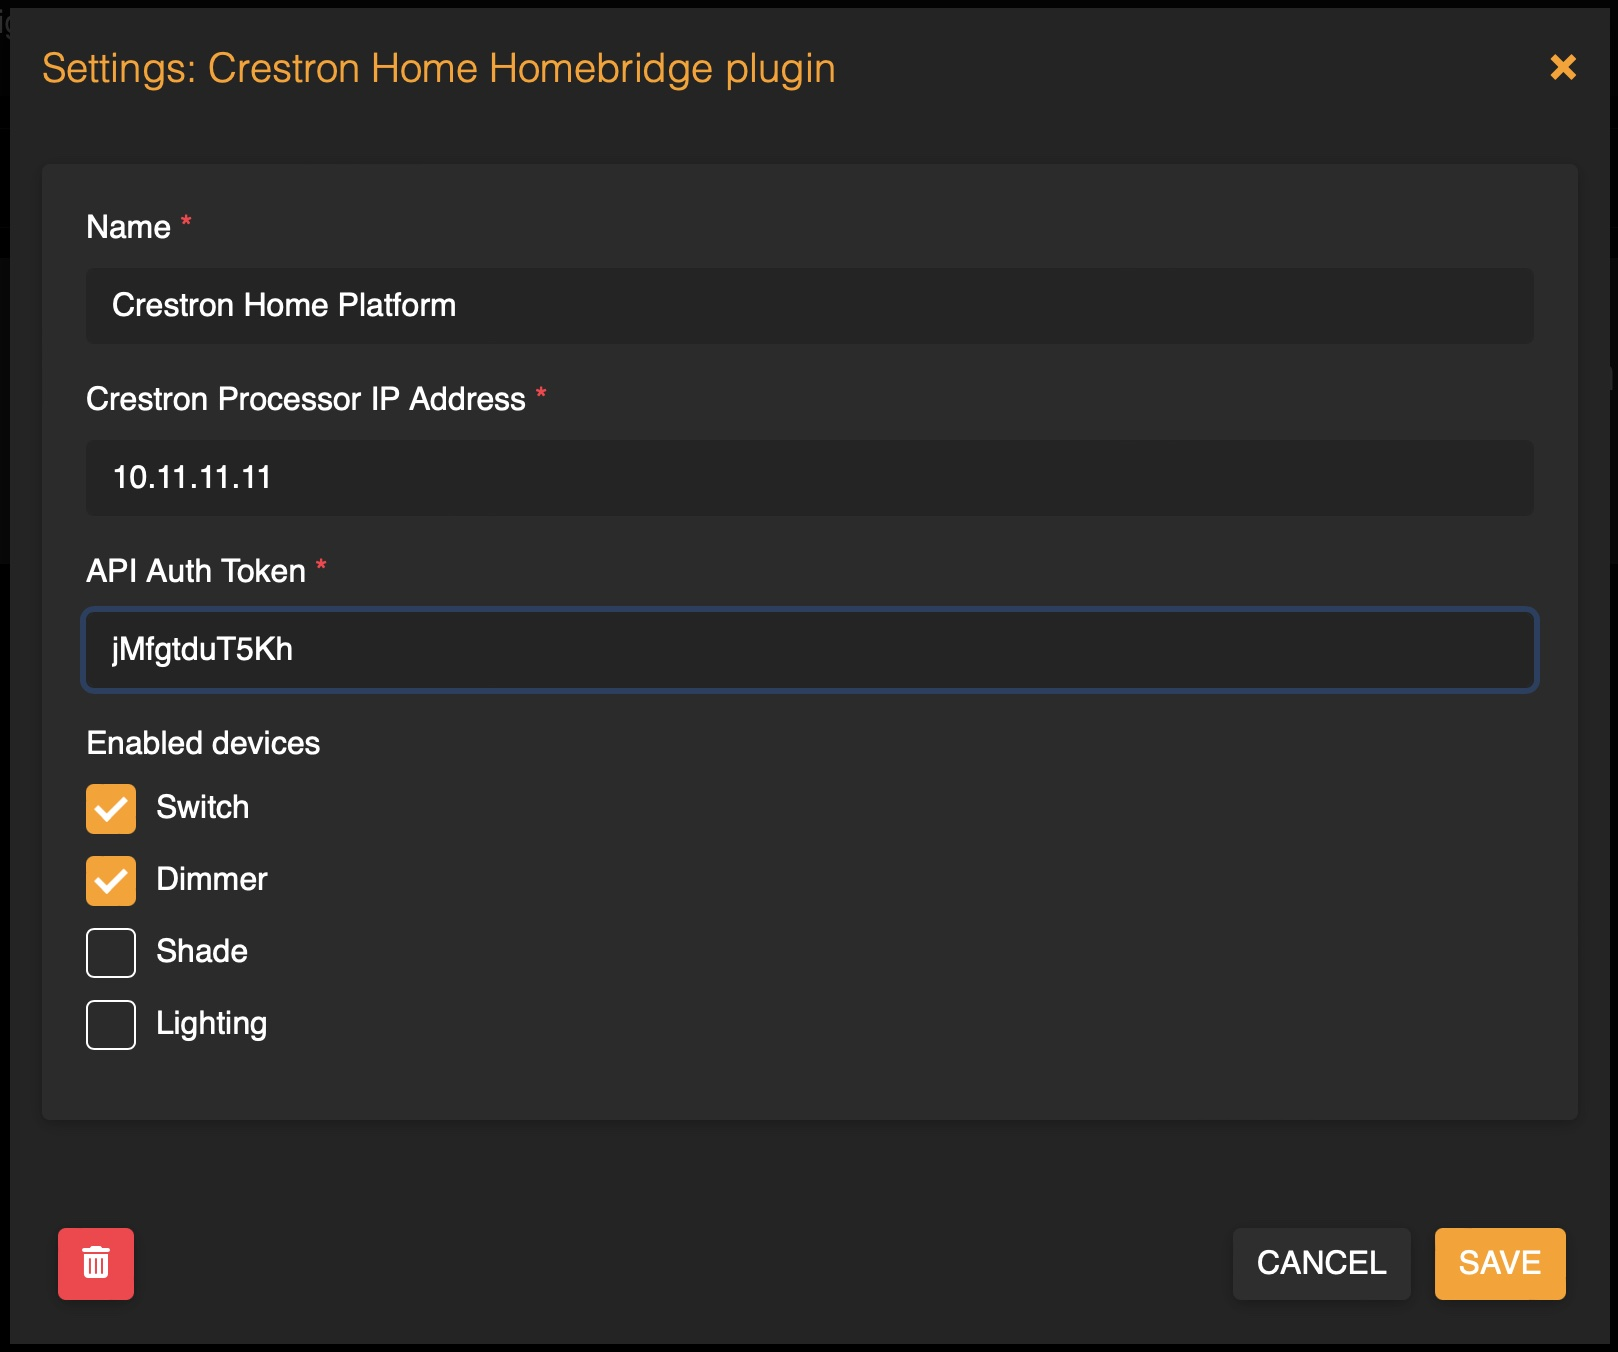
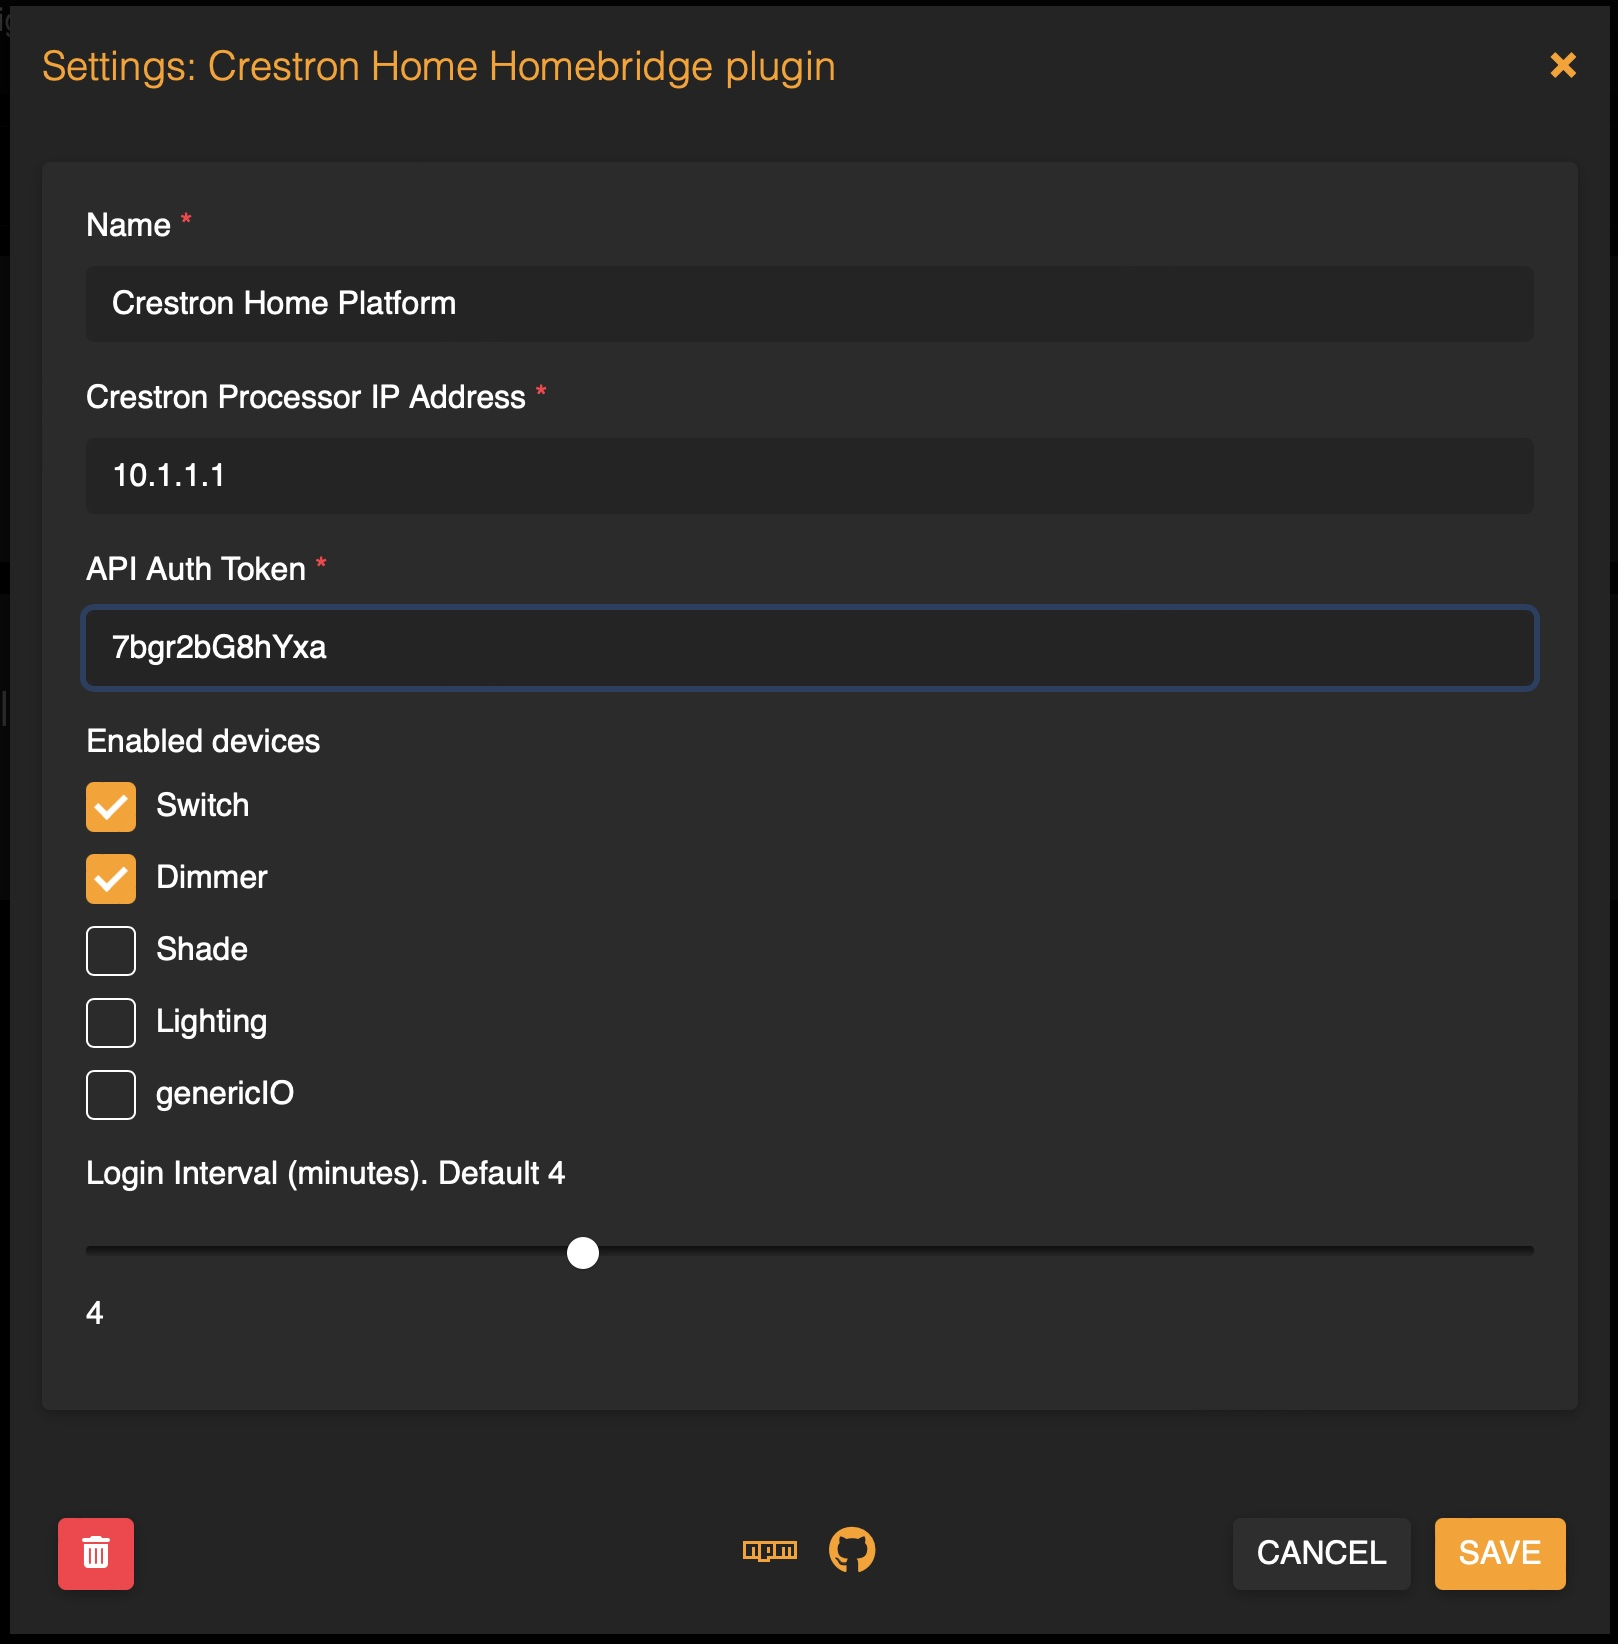
Support for refresh login interval

diff --git a/src/crestronClient.ts b/src/crestronClient.ts
@@ -41,20 +41,21 @@ export class CrestronClient {
   private crestronUri: string;
   private lastLogin: number = new Date().getTime() - 11 * 60 * 1000; // 11 minutes, Crestron session TTL is 10 minutes
   private NINE_MINUTES_MILLIS = 9 * 60 * 1000;
+  private loginInterval: number = 4 * 60 * 1000;
 
   private httpsAgent = new https.Agent({
     rejectUnauthorized: false,
   });
 
   private rooms: Room[] = [];
-  private scenes: Scene[] = [];
   private enabledTypes: string[] = [];
 
   constructor(
     crestronHost: string,
     apiToken: string,
     enabledTypes: Array<string>,
-    public readonly log: Logger) {
+    public readonly log: Logger,
+    loginInterval: number) {
 
     this.apiToken = apiToken;
     this.enabledTypes = enabledTypes;
@@ -62,6 +63,9 @@ export class CrestronClient {
     log.debug('Enabled types:', this.enabledTypes);
     this.log.debug('Configured Crestron Processor, trying to login to;', crestronHost);
     this.crestronUri = `https://${crestronHost}/cws/api`;
+
+    this.loginInterval = (loginInterval || 4) * 60 * 1000; //minutes
+    log.debug('Will relogin every', this.loginInterval);
   }
 
   public async getDevices() {
@@ -118,6 +122,7 @@ export class CrestronClient {
       this.log.info('Returning 149 devices, the stuff left behind are', devices.slice(149, 1024) || 'None');
 
       this.log.debug('Get Devices response: ', devices);
+      setInterval(this.login.bind(this), this.loginInterval);
       return d;
     } catch (error) {
       this.log.error('error getting devices: ', error);
@@ -220,10 +225,10 @@ export class CrestronClient {
 
   public async login(): Promise<number> {
 
-    // this.log.debug('Starting login...');
+    this.log.debug('Starting login...');
 
     if(new Date().getTime() - this.lastLogin < this.NINE_MINUTES_MILLIS ) {
-      // this.log.debug('LOGIN: Session is still valid, doing nothing...');
+      this.log.debug('LOGIN: Session is still valid, doing nothing...');
       return this.lastLogin;
     }
 

diff --git a/src/platform.ts b/src/platform.ts
@@ -30,7 +30,7 @@ export class CrestronHomePlatform implements DynamicPlatformPlugin {
   ) {
 
     log.debug('Configured devices:', config.enabledTypes);
-    this.crestronClient = new CrestronClient(config.crestronHost, config.token, config.enabledTypes, log);
+    this.crestronClient = new CrestronClient(config.crestronHost, config.token, config.enabledTypes, log, config.loginInterval);
     this.log.debug('Finished initializing platform:', this.config.name);
 
     // When this event is fired it means Homebridge has restored all cached accessories from disk.

diff --git a/README.md b/README.md
@@ -21,5 +21,6 @@ Two values are required for connecting Homebridge to Crestron controller:
    ![alt text](img/api-token.jpg)
 3. Enable accessories that will appear in the HomeKit:
    ![alt text](img/config.jpg)
+4. loginInterval: (Optional) Set re-login interval in minutes (default 4). According to Crestron documentation, login session is valid for 10 minutes. We keep session TTL 9 minutes and refresh session token with given interval.
    
 
